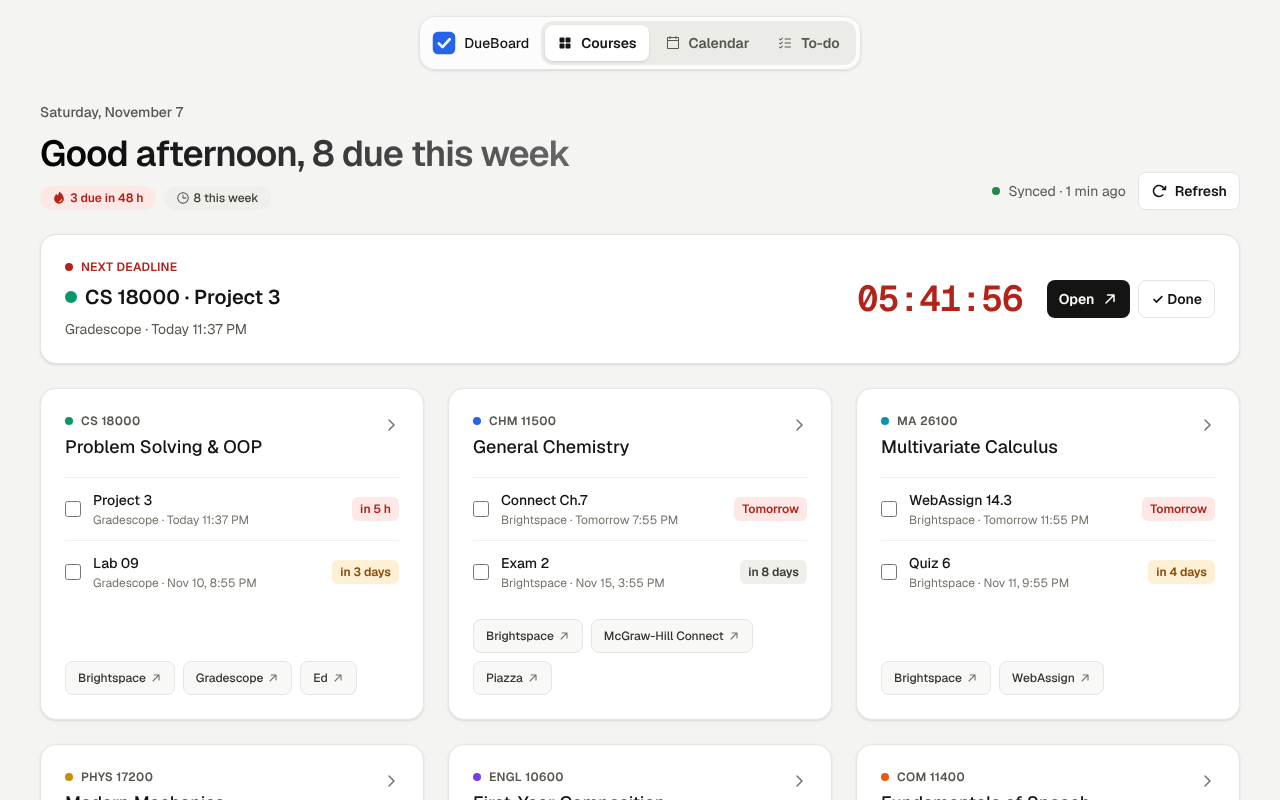
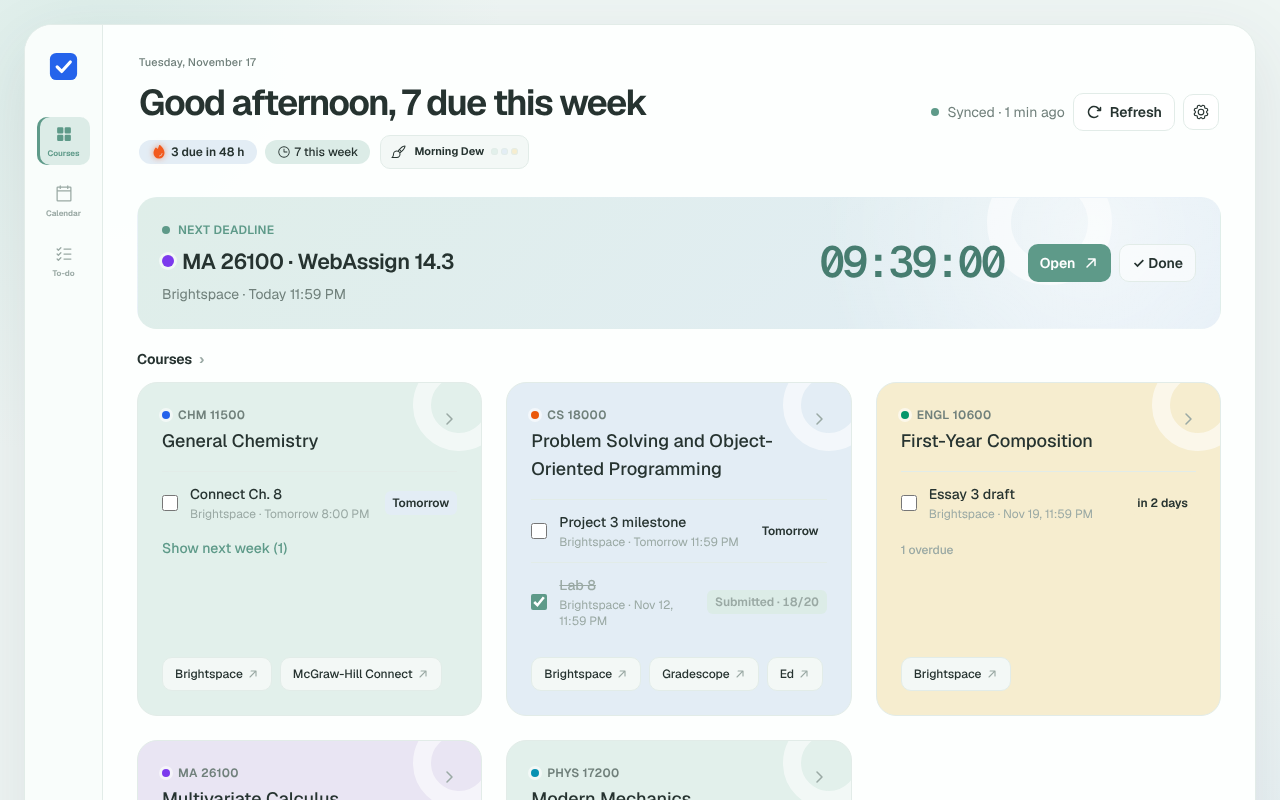
docs(store): Chrome listing and screenshots for 1.6
The store screenshots were from 1.2.4, before the redesign: no sidebar,
no themes, the old calendar. They are retaken from the built extension
(1280x800, made-up demo courses): Courses, the week calendar with class
times, To-do, and the Nightowl theme.

The description lists the four study themes and that DueBoard says when
a platform needs a new sign-in. The Gradescope host permission now reads
https://*.gradescope.com/*, as in the manifest.

Claude-Session: https://claude.ai/code/session_01YSmZu3cKUkbNiV9tJYMfP9

diff --git a/store/listing.md b/store/listing.md
@@ -26,7 +26,8 @@ Stop clicking through every course in Brightspace and signing in to platform aft
 • Due dates from other homework platforms: DueBoard opens your Brightspace homework link in a hidden frame inside the extension, reads the "Due" line (and, for past-due work, whether the page shows a score or "Submitted") and closes it, automatically and without opening a window or tab. Pages that can't be read that way keep their last known dates.
 • Syllabus suggestions: dated work found in your syllabus, to add with one click
 • Add your own: anything DueBoard can't read can be added by hand
-• Syncs every 30 minutes using the sessions already in your browser
+• Four study themes (Morning Dew, Noon Cafe, Dusk Lullaby, Nightowl) that follow the time of day, or pick the one you like
+• Syncs every 30 minutes using the sessions already in your browser, and tells you right away when a platform needs you to sign in again
 
 Privacy: everything stays in your browser. Nothing is uploaded, collected or analyzed, and DueBoard never sees your password.
 
@@ -34,7 +35,8 @@ Currently works with Purdue University's Brightspace (purdue.brightspace.com).
 DueBoard is an open-source student project and is not affiliated with Purdue University, D2L or any homework platform it reads.
 
 ## Screenshots (1280×800)
-store/screenshots/1-courses.png, 2-calendar.png, 3-todo.png
+Upload in this order: store/screenshots/1-courses.png, 2-calendar.png, 3-todo.png, 4-themes.png
+(Made-up demo courses, taken from the built extension; retake them when the interface changes.)
 
 ## Privacy practices
 
@@ -48,7 +50,7 @@ Show the student's own assignments, deadlines and course resource links from Bri
 - declarativeNetRequestWithHostAccess (homework platforms forbid being embedded): while DueBoard is reading, one session rule removes the `X-Frame-Options` and `Content-Security-Policy` response headers from page loads inside DueBoard's own hidden frames (requests that belong to no browser tab) on the homework sites it has access to; it never applies to the student's tabs, and it is removed when reading ends.
 - activeTab, scripting: only when the user clicks “Export this page” in the popup, read the current tab and save it as a local file to help add support for another homework platform.
 - Host permission https://purdue.brightspace.com/*: read the user's own courses, assignments, quizzes, calendar, course content listing, their own submissions (handed in or not) and their own gradebook grades.
-- Host permission https://www.gradescope.com/*: read the user's own courses, assignments, due dates and submission status.
+- Host permission https://*.gradescope.com/*: read the user's own courses, assignments, due dates and submission status.
 - Host permission https://socket.pearsoned.com/*: only when Pearson MyLab reports the student signed out, open Pearson's sign-in gateway (reached from the student's own Brightspace link) inside DueBoard's hidden frame and press its "Open Pearson" button, which signs the student back in to MyLab. It never types, and reads nothing on that page.
 - Host permission https://mylab.pearson.com/*: only when one of the user's courses links to Pearson MyLab, read the assignment list, due dates and the student's own scores (the same read-only "see score" request the page sends).
 - Host permissions, one per homework platform site (https://*.aleks.com/*, https://*.wileyplus.com/*, https://*.wwnorton.com/*, https://*.webassign.com/*, https://*.macmillanlearning.com/*, https://*.mheducation.com/*, https://*.cengage.com/*, https://*.zybooks.com/* and the other platform sites listed in the extension's permissions): read the due date on the student's own assignment pages and, for past-due work, whether the page shows it handed in (a labeled score or a status such as "Submitted"). The same permissions let the due-date reader run in the hidden frames that show these pages.

diff --git a/docs/guide/04-beta-and-launch.md b/docs/guide/04-beta-and-launch.md
@@ -24,7 +24,7 @@ Follows the timeline in the design document. Tick each step when done.
 - [ ] Fix beta issues; add the most-requested features and the most-used platforms from the form
 - [ ] Assets:
   - [ ] a 30-second demo video or GIF: click the toolbar icon → open the dashboard → open the next deadline
-  - [ ] three screenshots (`store/screenshots/`; re-capture if the UI changed)
+  - [ ] four screenshots (`store/screenshots/`; re-capture if the UI changed)
   - [ ] a short description (the store listing works)
 - [ ] Check the website at https://yokiwa.github.io/dueboard/
 - [ ] Read Purdue IT's Acceptable Use Policy; if needed, email IT to explain what DueBoard does
